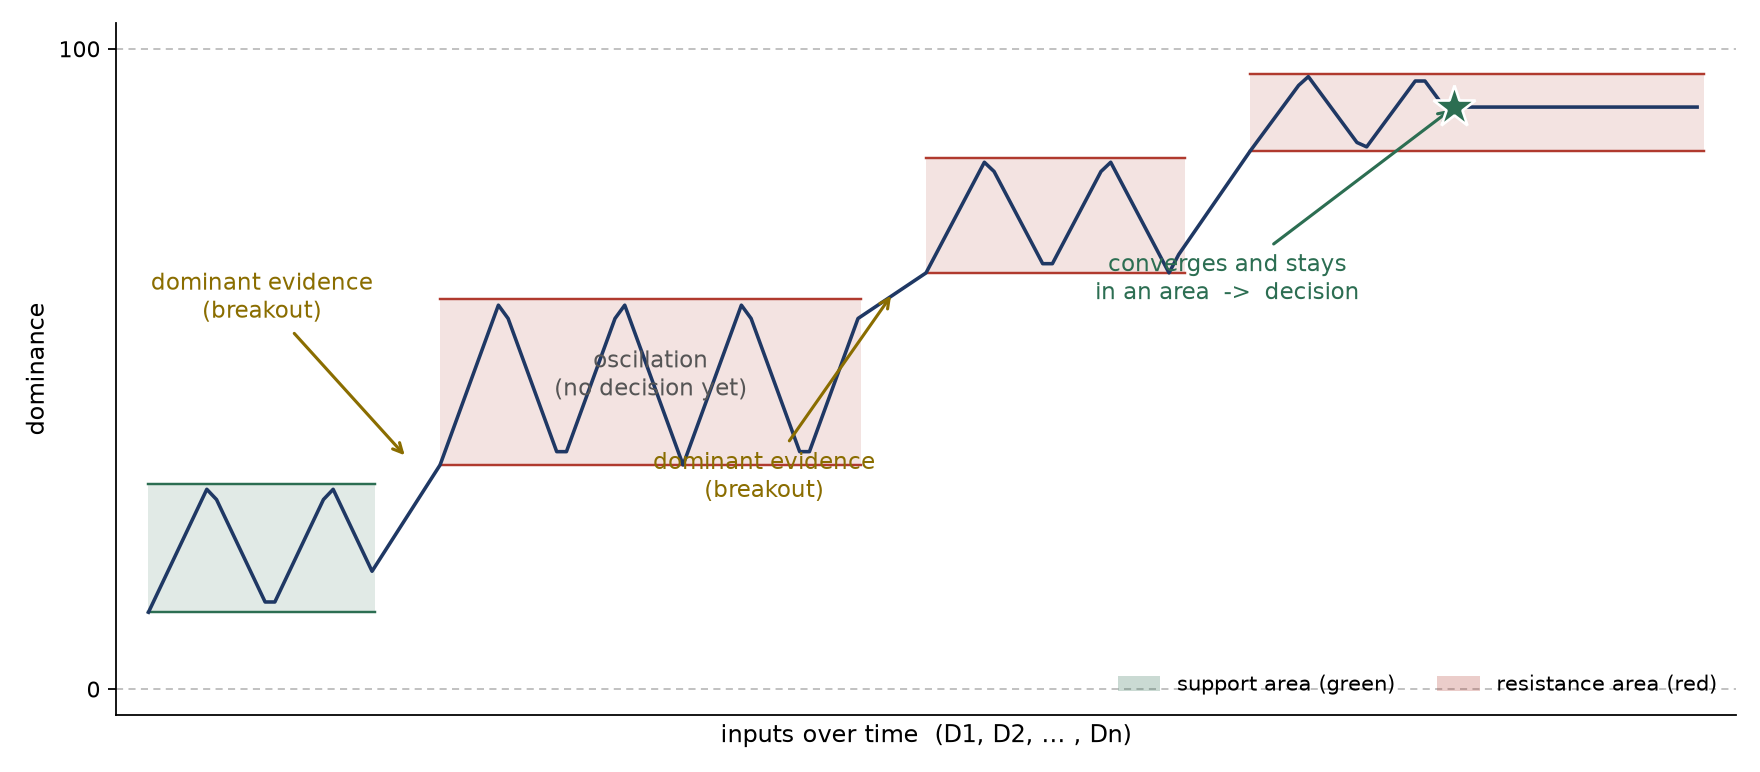
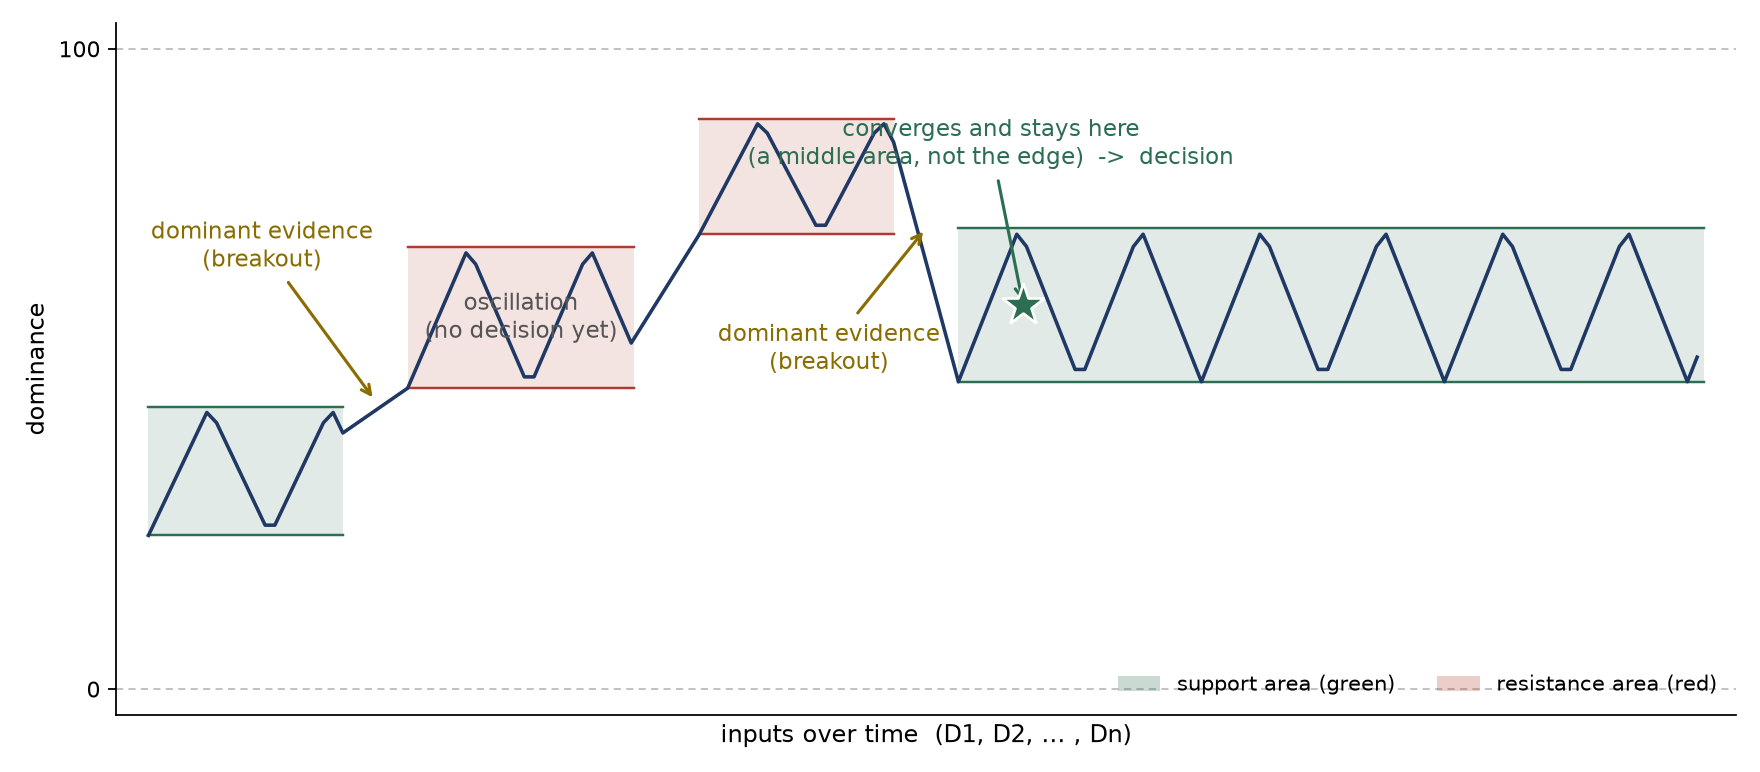
Clean core; convergence judged from the full trajectory (ends settled), anywhere not only edges; add support/resistance bullets and middle-convergence illustrations
- simulate: single-input breakout, full run (no early freeze); convergence = end
  settled in one area for a window, after moving; can also never converge
- remove dead momentum / decay / break_reset machinery; refresh docstrings
- README: simulates both filter and aggregation; support/resistance bullets;
  illustrations show convergence in middle areas (anywhere, not only edges)

Changed region(s): [[0.0625, 0.0933, 0.9688, 0.8083]]

diff --git a/aggregation_behavior_sim.py b/aggregation_behavior_sim.py
@@ -1,35 +1,25 @@
 """
-CCR V1.1 - Aggregation-function BEHAVIOR simulator.
+CCR V1.1 - Node behaviour simulator (pre-processing filter + aggregation function).
 
-This does NOT implement a specific aggregation function (no two-expert rule, no
-library). It is an abstract oracle that models the *behaviour* of an aggregation
-function: as filtered inputs (beliefs/evidence with a dominance) arrive one by
-one, the "decision" moves along a trajectory - like a price chart with support
-and resistance areas, momentum, breakouts, and convergence to a decision
-(a fixed point) or continued oscillation (no decision yet).
+This does NOT implement a specific aggregation function. It is an abstract oracle
+that models the BEHAVIOUR of a CCR V1.1 node:
 
-Concepts implemented
---------------------
-- decision trajectory x(t): a scalar that moves as inputs arrive.
-- support / resistance levels: an integer grid; x oscillates inside a band
-  around the current level (a plateau) and bounces off the band edges.
-- momentum m(t): accumulates a decaying sum of the signed pushes.
-- dominant evidence -> breakout: to leave the current band (break a resistance
-  going up, or a support going down) the momentum must exceed a break
-  threshold; only dominant inputs (or a sustained run) achieve that. The
-  breakout is amplified (a jump to the next level).
-- oscillation / stabilization: while nothing is dominant enough, x just
-  oscillates in the band (a "negotiation" phase, no decision yet).
-- convergence / fixed point: if x reaches a decision zone (top = YES, bottom =
-  NO) and stays stable for a window, a decision is made (x(t+1)=x(t)).
-- order / time-invariance: because it is a running accumulation, moving the
-  dominant inputs later delays the decision (shift in input -> shift in output).
-- traceability: every breakout and the convergence step are recorded, so you
-  can see which dominant evidence moved the decision through each level.
+    n inputs (D1..Dn) -> pre-processing (relevance) filter -> aggregation function -> output
+
+- Pre-processing (relevance) filter: each input is kept (relevant = 1) or dropped
+  (relevant = 0); only kept inputs reach the aggregation function.
+- Aggregation-function behaviour: the aggregated dominance moves along a trajectory
+  in a bounded range (e.g. 0..100), like a price chart. It oscillates inside a phase
+  (a support or resistance area) and BREAKS OUT to the next area only when a single
+  input has enough dominance to cross a breakout threshold.
+- Output (binary): if the trajectory CONVERGES (stays in the same area, with no
+  breakout) for a window, the output is a decision; if it keeps oscillating between
+  areas, the output is no decision. Convergence can happen in any area, not only the
+  extremes.
 """
 
 from __future__ import annotations
-from dataclasses import dataclass, field
+from dataclasses import dataclass
 from typing import List, Optional, Tuple
 import numpy as np
 
@@ -39,24 +29,25 @@ class Inp:
     idx: int
     push: float        # signed = direction * dominance
     dominance: float   # magnitude in [0, ~1.7]
-    dominant: bool     # True for the rare high-dominance ("major") evidence
+    dominant: bool     # True for the rare high-dominance ("dominant") evidence
     relevant: bool = True   # pre-processing (relevance) filter: 1 = kept, 0 = dropped
 
 
 def make_inputs(n: int = 100, bias: float = 0.0, dominant_prob: float = 0.08,
                 dominant_when: str = "spread", dominant_align: float = 0.85,
                 relevance_prob: float = 1.0, seed: int = 0) -> List[Inp]:
-    """Synthetic filtered inputs.
+    """Synthetic inputs.
 
     bias in [-0.5, 0.5] tilts the direction of the pushes (drives a trend).
-    dominant_prob is the fraction of rare, high-dominance ("major") inputs.
-    dominant_when: 'spread' | 'late' | 'early' controls when the dominant
-        inputs occur (used to show order / time-invariance).
-    dominant_align: how strongly the dominant ("major") evidence follows the
-        trend (bias) direction; these are the inputs that drive breakouts.
-    relevance_prob: the per-node pre-processing (relevance) filter. Each input
-        D_i is independently kept (relevant = 1) with this probability, else
-        dropped (relevant = 0) and never reaches aggregation. 1.0 keeps all.
+    dominant_prob is the fraction of rare, high-dominance ("dominant") inputs;
+        only these can cross the breakout threshold and end a phase.
+    dominant_when: 'spread' | 'late' | 'early' controls when the dominant inputs
+        occur (used to show order / time dependence).
+    dominant_align: how strongly the dominant evidence follows the trend (bias)
+        direction; these are the inputs that drive breakouts.
+    relevance_prob: the per-node pre-processing (relevance) filter. Each input is
+        independently kept (relevant = 1) with this probability, else dropped
+        (relevant = 0) and never reaches aggregation. 1.0 keeps all.
     """
     rng = np.random.default_rng(seed)
     n_dom = max(1, int(round(n * dominant_prob)))
@@ -88,12 +79,11 @@ def make_inputs(n: int = 100, bias: float = 0.0, dominant_prob: float = 0.08,
 
 @dataclass
 class SimResult:
-    traj: np.ndarray                    # decision trajectory x(t), length n+1
-    momentum: np.ndarray                # momentum m(t)
+    traj: np.ndarray                    # dominance trajectory, length n+1
     anchors: np.ndarray                 # current support/resistance level per step
-    breakouts: List[Tuple[int, float, int, str]]  # (input idx, dominance, new level, kind: 'dominant'|'momentum')
+    breakouts: List[Tuple[int, float, int, str]]  # (input idx, dominance, new level, "dominant")
     decided_at: Optional[int]           # step index of the decision, or None
-    decision: Optional[str]             # 'YES' / 'NO' / None
+    decision: Optional[str]             # "decision" / None (no decision)
     levels_visited: List[int]
     params: dict
     relevance: Optional[np.ndarray] = None  # per-input 1 = kept / 0 = dropped by the filter
@@ -103,27 +93,29 @@ class SimResult:
 def simulate(inputs: List[Inp], *, spacing: float = 2.6, band: float = 0.95,
              band_range: Optional[Tuple[float, float]] = None,
              y_center: float = 0.0, y_span: Optional[Tuple[float, float]] = None,
-             osc_speed: float = 0.30, push_gain: float = 0.05, decay: float = 0.85,
-             break_thr: float = 1.25, break_reset: float = 0.4, decide_level: int = 3,
+             osc_speed: float = 0.30, push_gain: float = 0.05,
+             break_thr: float = 1.25, decide_level: int = 3,
              stable_window: int = 6, noise: float = 0.03, seed: int = 0) -> SimResult:
     """Run the behaviour oracle over the inputs.
 
-    The trajectory CONSOLIDATES inside a channel (a level +/- band): during a
-    consolidation phase it zig-zags edge to edge, touching the resistance line
-    (top of the band) and the support line (bottom) several times, like a price
-    chart. It only BREAKS OUT to the next level when the accumulated momentum
-    passes a threshold (a dominant input, or a sustained run). This keeps the
-    support/resistance phases long and easy to see by eye.
+    The trajectory oscillates inside a phase (a level +/- band): it zig-zags edge to
+    edge, touching the resistance line (top of the band) and the support line (bottom).
+    A phase ends (a BREAKOUT to the next level) only when a single input's dominance
+    crosses break_thr; inputs below the threshold just keep it oscillating.
 
-    decide_level: how many levels away the decision zone is (YES at
-        +decide_level, NO at -decide_level).
+    Output: the trajectory CONVERGES when it stays at the same level (no breakout) for
+    stable_window inputs after having moved at least once; that is a decision. If it
+    keeps breaking out until the inputs run out, there is no decision.
+
+    band_range: if given, each phase samples its own amplitude in this range.
+    y_center / y_span: if given, the trajectory is centred at y_center and bounded to
+        y_span (e.g. 0..100); breakouts that would leave the range are blocked.
     """
     rng = np.random.default_rng(seed + 1)
     rng_b = np.random.default_rng(seed + 2)   # separate stream for per-phase amplitude
 
     def _band() -> float:
-        # each channel (phase) gets its own amplitude when band_range is given,
-        # so phase heights vary; otherwise the fixed band is used everywhere.
+        # each phase gets its own amplitude when band_range is given; else a fixed band.
         return float(rng_b.uniform(band_range[0], band_range[1])) if band_range else band
 
     # if a y_span (e.g. 0..100) is given, bound the levels so the whole trajectory
@@ -141,9 +133,8 @@ def simulate(inputs: List[Inp], *, spacing: float = 2.6, band: float = 0.95,
     cur_band = _band()   # amplitude of the current channel
     o = 0.0              # position within the channel, in [-cur_band, cur_band]
     d = 1.0              # intra-channel zig-zag direction
-    m = 0.0
     x = y_center
-    traj = [x]; mom = [0.0]; anch = [0]; bands = [cur_band]
+    traj = [x]; anch = [0]; bands = [cur_band]
     breakouts: List[Tuple[int, float, int, str]] = []
     decided_at: Optional[int] = None
     decision: Optional[str] = None
@@ -154,19 +145,20 @@ def simulate(inputs: List[Inp], *, spacing: float = 2.6, band: float = 0.95,
             # dropped by the pre-processing (relevance) filter: it never reaches
             # aggregation, so nothing updates and the trajectory holds flat.
             relevance.append(0)
-            traj.append(x); mom.append(m); anch.append(anchor); bands.append(cur_band)
+            traj.append(x); anch.append(anchor); bands.append(cur_band)
             continue
         relevance.append(1)
-        m = decay * m + inp.push       # kept only for the momentum trace
         # a phase ends only when a SINGLE input has enough dominance to cross the
         # breakout threshold; inputs below the threshold just keep it oscillating.
-        if decided_at is None and inp.push > break_thr and anchor + 1 <= amax:
+        # the FULL trajectory always runs (no early freeze).
+        prev_anchor = anchor
+        if inp.push > break_thr and anchor + 1 <= amax:
             anchor += 1
-            cur_band = _band()         # new channel, new random amplitude
+            cur_band = _band()         # new phase, new random amplitude
             o = -cur_band * 0.6        # jump into the low of the new channel
             d = 1.0
             breakouts.append((inp.idx, inp.dominance, anchor, "dominant"))
-        elif decided_at is None and inp.push < -break_thr and anchor - 1 >= amin:
+        elif inp.push < -break_thr and anchor - 1 >= amin:
             anchor -= 1
             cur_band = _band()
             o = cur_band * 0.6
@@ -174,43 +166,41 @@ def simulate(inputs: List[Inp], *, spacing: float = 2.6, band: float = 0.95,
             breakouts.append((inp.idx, inp.dominance, anchor, "dominant"))
         else:
             # consolidation: zig-zag across the channel, bouncing off the edges.
-            # the step scales with the channel amplitude so tall and short phases
-            # both fill their band in a similar number of steps.
+            # the step scales with the phase amplitude so tall and short phases both
+            # fill their band in a similar number of steps.
             o += osc_speed * cur_band * d + push_gain * inp.push + rng.normal(0, noise)
             if o >= cur_band:
                 o = cur_band; d = -1.0     # bounce down off the resistance line
             elif o <= -cur_band:
                 o = -cur_band; d = 1.0     # bounce up off the support line
         x = y_center + anchor * spacing + o
-        traj.append(x); mom.append(m); anch.append(anchor); bands.append(cur_band)
-        # convergence -> the OUTPUT of the aggregation function (V1.1): binary.
-        # a decision is reached when the trajectory settles in a support or
-        # resistance area (an extreme level) and stays there for a window;
-        # otherwise it keeps oscillating and there is no decision.
-        if y_span is not None:
-            at_area = (anchor == amax or anchor == amin)
-        else:
-            at_area = abs(anchor) >= decide_level
-        if decided_at is None and at_area:
-            stable += 1
-            if stable >= stable_window:
-                decided_at = inp.idx
-                # V1.1 rule (agreed): converging to a support OR resistance area is
-                # a decision; only continued oscillation is no decision.
-                decision = "decision"
-        else:
+        traj.append(x); anch.append(anchor); bands.append(cur_band)
+        # convergence is judged from the END state of the whole trajectory: staying in
+        # the same area (no breakout) for a window, after at least one breakout, is a
+        # decision. A later breakout (it moved again) voids an earlier convergence, so
+        # a run that is still oscillating at the end has no decision.
+        if anchor != prev_anchor:
             stable = 0
-    return SimResult(np.array(traj), np.array(mom), np.array(anch), breakouts,
+            decided_at = None; decision = None
+        else:
+            stable += 1
+            if decided_at is None and breakouts and stable >= stable_window:
+                decided_at = inp.idx
+                decision = "decision"
+    return SimResult(np.array(traj), np.array(anch), breakouts,
                      decided_at, decision, sorted(set(anch)),
                      dict(spacing=spacing, band=band, band_range=band_range,
-                          y_center=y_center, y_span=y_span,
-                          osc_speed=osc_speed, break_thr=break_thr,
-                          decide_level=decide_level, stable_window=stable_window),
+                          y_center=y_center, y_span=y_span, osc_speed=osc_speed,
+                          break_thr=break_thr, decide_level=decide_level,
+                          stable_window=stable_window),
                      relevance=np.array(relevance), bands=np.array(bands))
 
 
 if __name__ == "__main__":
     # quick self-check
-    ins = make_inputs(100, bias=0.14, seed=1)
-    r = simulate(ins, seed=1)
-    print("decided:", r.decision, "at step", r.decided_at, "| breakouts:", len(r.breakouts))
+    ins = make_inputs(1000, bias=0.0, dominant_prob=0.1, relevance_prob=0.7, seed=1)
+    r = simulate(ins, band_range=(5, 15), y_center=50.0, y_span=(0.0, 100.0),
+                 break_thr=0.7, stable_window=30, osc_speed=0.18, seed=1)
+    print("decision:", r.decision, "at", r.decided_at,
+          "| breakouts:", len(r.breakouts),
+          "| kept:", int(r.relevance.sum()), "/", len(r.relevance))

diff --git a/run_sim_interactive.py b/run_sim_interactive.py
@@ -200,10 +200,9 @@ def random_config():
             band_range=(band_min, band_max),            # random per-phase amplitude, 20..50
             y_center=50.0, y_span=(0.0, 100.0),         # dominance bounded to 0..100
             break_thr=random.uniform(0.55, 0.85),       # easier breakouts -> more, more frequent phases
-            decay=random.uniform(0.82, 0.90),
-            decide_level=999,                            # bounded model uses the 0/100 areas, not this
-            stable_window=random.randint(45, 95),        # must hold a support/resistance area this long
-                                                         # to converge -> gives a decision / no-decision mix
+            decide_level=999,                            # not used; convergence is detected anywhere
+            stable_window=random.randint(10, 20),        # end settled in one area (no breakout) this
+                                                         # long to count as converged -> decision
             osc_speed=random.uniform(0.14, 0.22),       # fraction of the band per step
         ),
     )

diff --git a/README.md b/README.md
@@ -28,11 +28,11 @@ The node's own belief goes straight to the aggregation function.
 
 ## What the graph shows
 
-Two example runs. Converging to **either** area is a decision (only continued oscillation is no decision):
+Two example runs. Convergence can happen in **any** area, not only at the edges (only a trajectory that keeps oscillating and never settles gives no decision):
 
-![Converging in a resistance area (high dominance) = decision](docs/simulator_illustration.png)
+![Convergence in a middle area = decision](docs/simulator_illustration.png)
 
-![Converging in a support area (low dominance) = decision](docs/simulator_illustration_support.png)
+![Convergence in another middle area = decision](docs/simulator_illustration_support.png)
 
 As the (filtered) inputs arrive, the **decision trajectory** moves like a price chart:
 
@@ -51,6 +51,11 @@ The phase holds while the input dominance stays below a breakout threshold, so i
 the threshold keep the trajectory oscillating in the phase. It takes a **dominant input**
 (strong evidence) to break out to the next area. The stronger the dominant evidence, the
 sooner the phase ends.
+
+- **Support (green):** an area that acts as a floor. The trajectory falls into it and
+  oscillates on top of it; breaking below needs enough dominant evidence.
+- **Resistance (red):** an area that acts as a ceiling. The trajectory rises into it and
+  oscillates beneath it; breaking above needs enough dominant evidence.
 
 ### The output (V1.1 rule)
 
